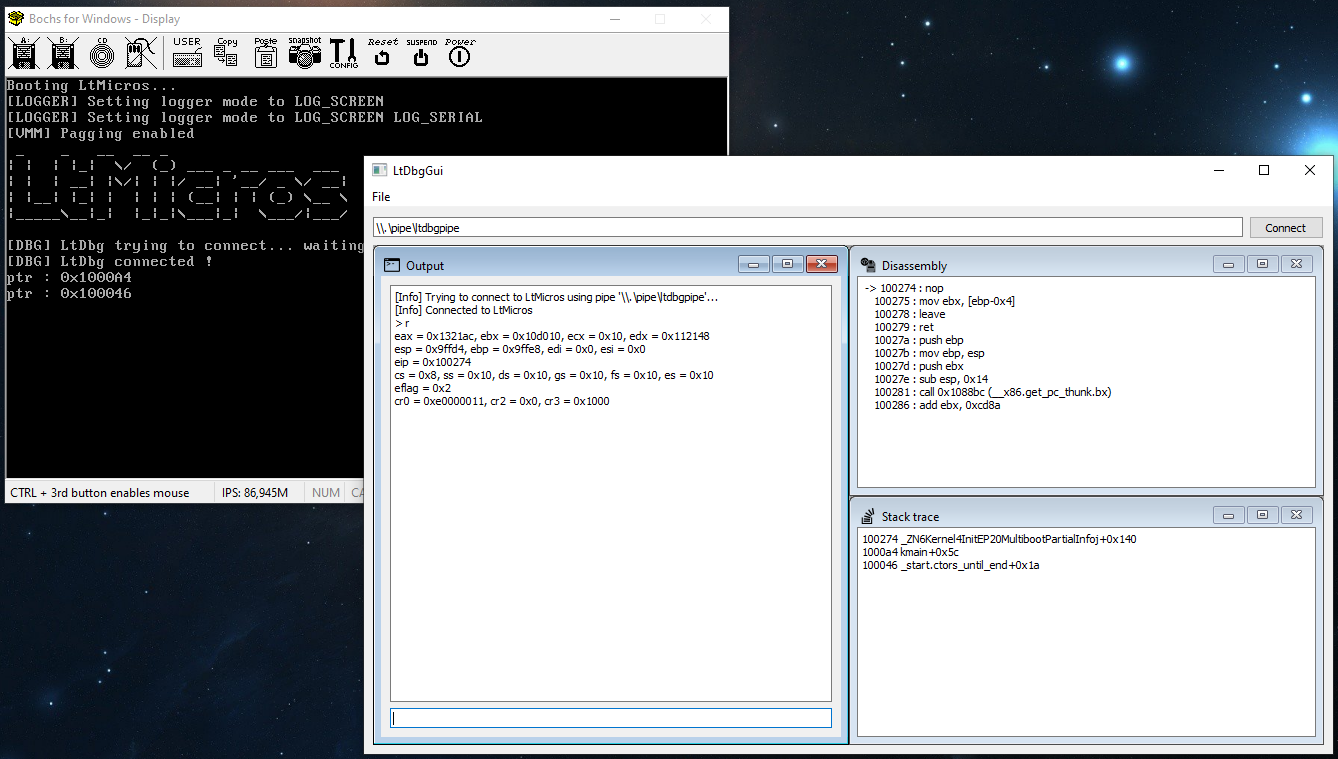
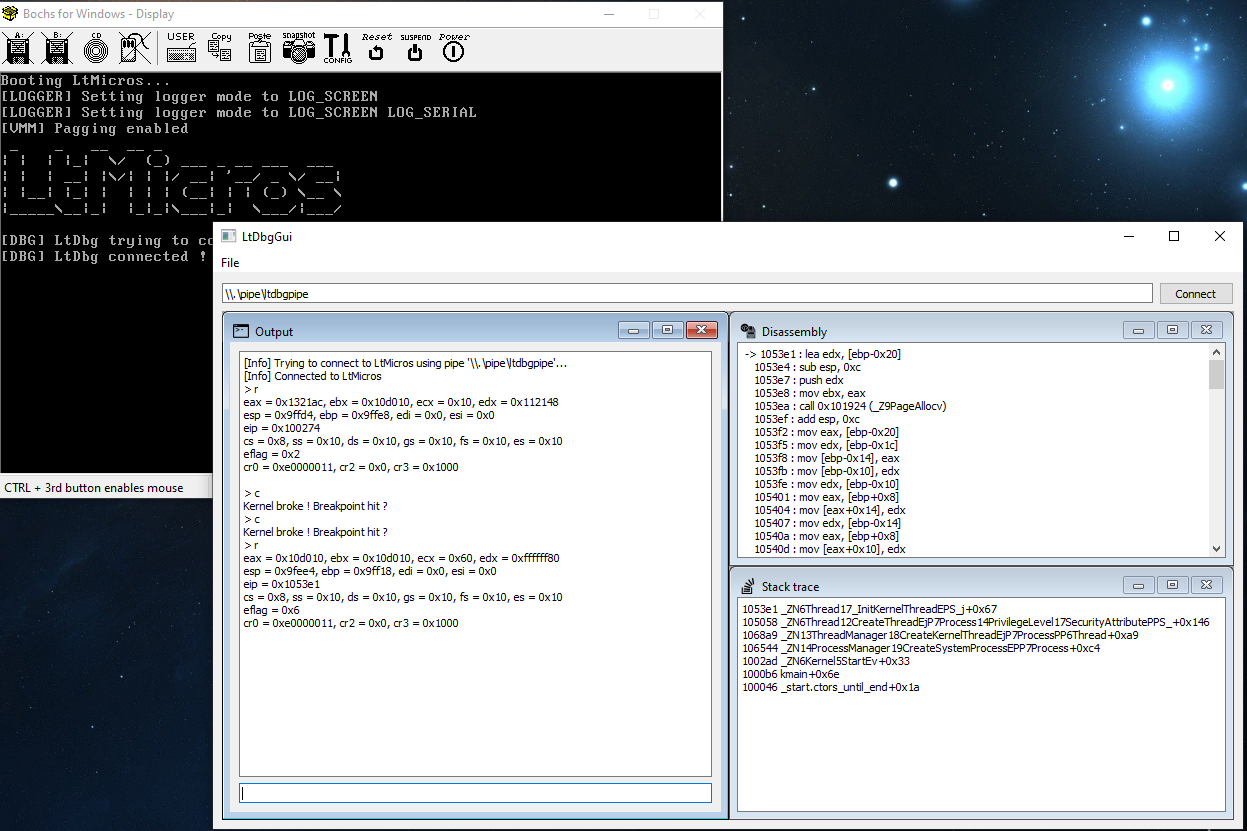
disassembly and stack trace are now print for each executed command

diff --git a/debuggermanager.cpp b/debuggermanager.cpp
@@ -28,6 +28,25 @@ void DebuggerManager::Initialize(Dbg * const dbg, CmdWidget * const cmdWidget, S
     _initialized = true;
 }
 
+void DebuggerManager::ConnectToDebugger(const std::string pipename)
+{
+    DbgResponsePtr res = _dbg->ExecuteCommand(CMD_CONNECT);
+    if (res->status != DBG_STATUS_SUCCESS)
+    {
+        _cmdWidget->AddError("Connection failed with LtMicros ! (Connect command returned " + QString(res->status));
+    }
+    else
+    {
+        lastResponse = res;
+
+        _cmdWidget->SetEnabled(true);
+        _cmdWidget->AddInfo("Connected to LtMicros");
+
+        RetrieveDisassembly();
+        RetrieveStacktrace();
+    }
+}
+
 void DebuggerManager::ExecuteCommand(const std::string input, KeDebugContext * context)
 {
     DbgResponsePtr res = _dbg->ExecuteCommand(input, context);
@@ -38,42 +57,52 @@ void DebuggerManager::ExecuteCommand(const std::string input, KeDebugContext * c
         return;
     }
 
-    if (res->status != DBG_STATUS_SUCCESS)
+    if (res->status != DBG_STATUS_SUCCESS && res->status != DBG_STATUS_BREAKPOINT_REACHED)
     {
-        _cmdWidget->AddError("Command" + QString(input.c_str()) + " failed with code " + QString(res->status));
+        _cmdWidget->AddError("Command" + QString(input.c_str()) + " failed with code " + QString::number(res->status));
         return;
     }
 
     _cmdWidget->AddText("> " + QString(input.c_str()));
     _cmdWidget->AddText(QString(res->content.c_str()));
 
-    res = _dbg->ExecuteCommand(CMD_STACK_TRACE, "", lastResponse->context);
+    // Ask for disassembly and stacktrace to the kernel and display them
+    RetrieveStacktrace();
+    RetrieveDisassembly();
+}
+
+void DebuggerManager::RetrieveDisassembly()
+{
+    DbgResponsePtr res = _dbg->ExecuteCommand(CMD_DISASS, "100", lastResponse->context);
     if (res == nullptr)
     {
         _cmdWidget->AddError("Failed to retrieve stack trace");
         return;
     }
 
-    if (res->status != DBG_STATUS_SUCCESS)
+    if (res->status != DBG_STATUS_SUCCESS && res->status != DBG_STATUS_BREAKPOINT_REACHED)
     {
-        _cmdWidget->AddError("Failed to retrieve stack trace, error code : " + QString(res->status));
-        return;
-    }
-
-    _stackTraceWidget->setText(QString(res->content.c_str()));
-
-    res = _dbg->ExecuteCommand(CMD_DISASS, "", lastResponse->context);
-    if (res == nullptr)
-    {
-        _cmdWidget->AddError("Failed to retrieve stack trace");
-        return;
-    }
-
-    if (res->status != DBG_STATUS_SUCCESS)
-    {
-        _cmdWidget->AddError("Failed to retrieve stack trace, error code : " + QString(res->status));
+        _cmdWidget->AddError("Failed to retrieve stack trace, error code : " + QString::number(res->status));
         return;
     }
 
     _asmWidget->setText(QString(res->content.c_str()));
+}
+
+void DebuggerManager::RetrieveStacktrace()
+{
+    DbgResponsePtr res = _dbg->ExecuteCommand(CMD_STACK_TRACE, "", lastResponse->context);
+    if (res == nullptr)
+    {
+        _cmdWidget->AddError("Failed to retrieve stack trace");
+        return;
+    }
+
+    if (res->status != DBG_STATUS_SUCCESS && res->status != DBG_STATUS_BREAKPOINT_REACHED)
+    {
+        _cmdWidget->AddError("Failed to retrieve stack trace, error code : " + QString::number(res->status));
+        return;
+    }
+
+    _stackTraceWidget->setText(QString(res->content.c_str()));
 }

diff --git a/mainwindow.cpp b/mainwindow.cpp
@@ -12,7 +12,6 @@ MainWindow::MainWindow(QWidget *parent)
 {
     _initView();
     _initMenu();
-    _initDebugger();
     _initDebuggerManager();
 }
 
@@ -82,17 +81,14 @@ void MainWindow::_initMenu()
     connect(_actionQuit, SIGNAL(triggered()), qApp, SLOT(quit()));
 }
 
-void MainWindow::_initDebugger()
+void MainWindow::_initDebuggerManager()
 {
     _dbg = new Dbg;
 
+    DebuggerManager::Instance()->Initialize(_dbg, _cmdWidget, _stackTraceTextEdit, _asmTextEdit);
+
     if (_pipeLineEdit->text().length() > 0)
         connectToLtKernel();
-}
-
-void MainWindow::_initDebuggerManager()
-{
-    DebuggerManager::Instance()->Initialize(_dbg, _cmdWidget, _stackTraceTextEdit, _asmTextEdit);
 }
 
 void MainWindow::openSymbolsMenu()
@@ -105,7 +101,6 @@ void MainWindow::connectToLtKernel()
     const QString pipeName = _pipeLineEdit->text();
 
     _connexionButton->setDisabled(true);
-    _cmdWidget->SetDebugger(nullptr);
     _cmdWidget->SetEnabled(false);
 
     if (pipeName.length() > 0)
@@ -115,19 +110,7 @@ void MainWindow::connectToLtKernel()
             _dbg->Connect(_pipeLineEdit->text().toStdString());
             _dbg->SetSymbolsPath(Parameters::Instance()->symbolsPath);
 
-            DbgResponsePtr res = _dbg->ExecuteCommand(CMD_CONNECT);
-            if (res->status != DBG_STATUS_SUCCESS)
-            {
-                _cmdWidget->AddError("Connection failed with LtMicros ! (Connect command returned " + QString(res->status));
-            }
-            else
-            {
-                DebuggerManager::Instance()->lastResponse = res;
-
-                _cmdWidget->SetDebugger(_dbg);
-                _cmdWidget->SetEnabled(true);
-                _cmdWidget->AddInfo("Connected to LtMicros");
-            }
+            DebuggerManager::Instance()->ConnectToDebugger(Parameters::Instance()->pipeName);
         }
         catch (const DbgException & exc)
         {

diff --git a/debuggermanager.h b/debuggermanager.h
@@ -13,12 +13,15 @@ public:
     static DebuggerManager * Instance();
 
     void Initialize(Dbg * const dbg, CmdWidget * const cmdWidget, StackTraceWidget * const stackTraceWidget, AsmWidget * const asmWidget);
+    void ConnectToDebugger(const std::string pipename);
     void ExecuteCommand(const std::string input, KeDebugContext * context = nullptr);
 
     DbgResponsePtr lastResponse;
 
 private:
     DebuggerManager();
+    void RetrieveDisassembly();
+    void RetrieveStacktrace();
 
     static DebuggerManager * _instance;
 

diff --git a/cmdwidget.hpp b/cmdwidget.hpp
@@ -18,7 +18,6 @@ public:
     void AddError(const QString message);
     void AddText(const QString message);
 
-    void SetDebugger(Dbg * const debugger);
     void SetEnabled(const bool enabled);
 
 private slots:
@@ -36,8 +35,6 @@ private:
 
     QVector<QString> _commandsHistory;
     int _commandIndex;
-
-    Dbg * _dbg;
 };
 
 #endif // CMDWIDGET_HPP

diff --git a/cmdwidget.cpp b/cmdwidget.cpp
@@ -36,11 +36,6 @@ void CmdWidget::AddText(const QString message)
     _cmdTextEdit->append(message);
 }
 
-void CmdWidget::SetDebugger(Dbg * const debugger)
-{
-    _dbg = debugger;
-}
-
 void CmdWidget::SetEnabled(const bool enabled)
 {
     _cmdLineEdit->setEnabled(enabled);

diff --git a/mainwindow.h b/mainwindow.h
@@ -30,7 +30,6 @@ public slots:
 private:
     void _initView();
     void _initMenu();
-    void _initDebugger();
     void _initDebuggerManager();
 
     QWidget * _window;
